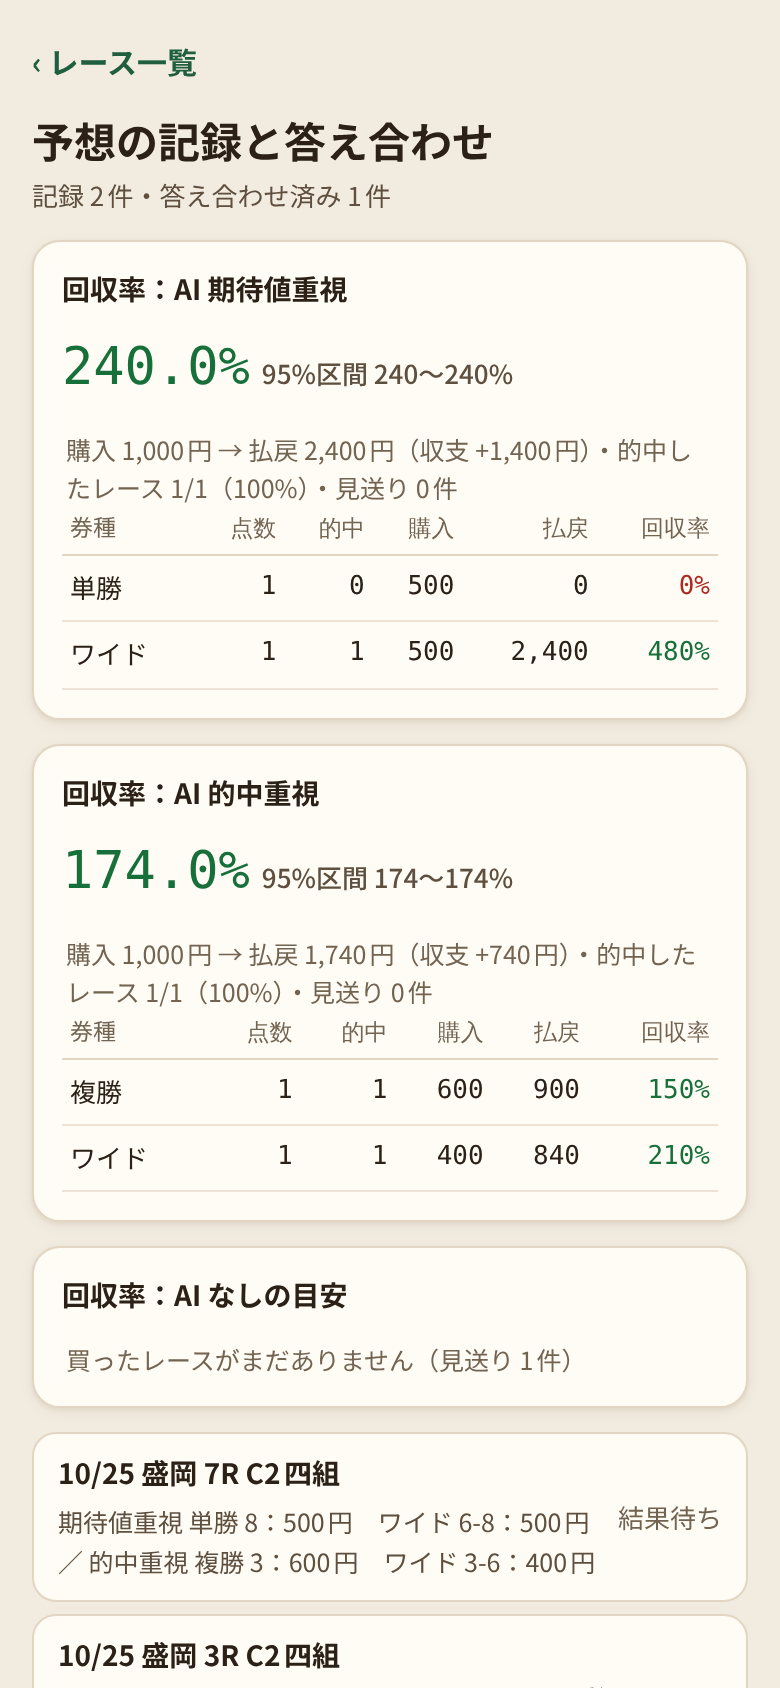
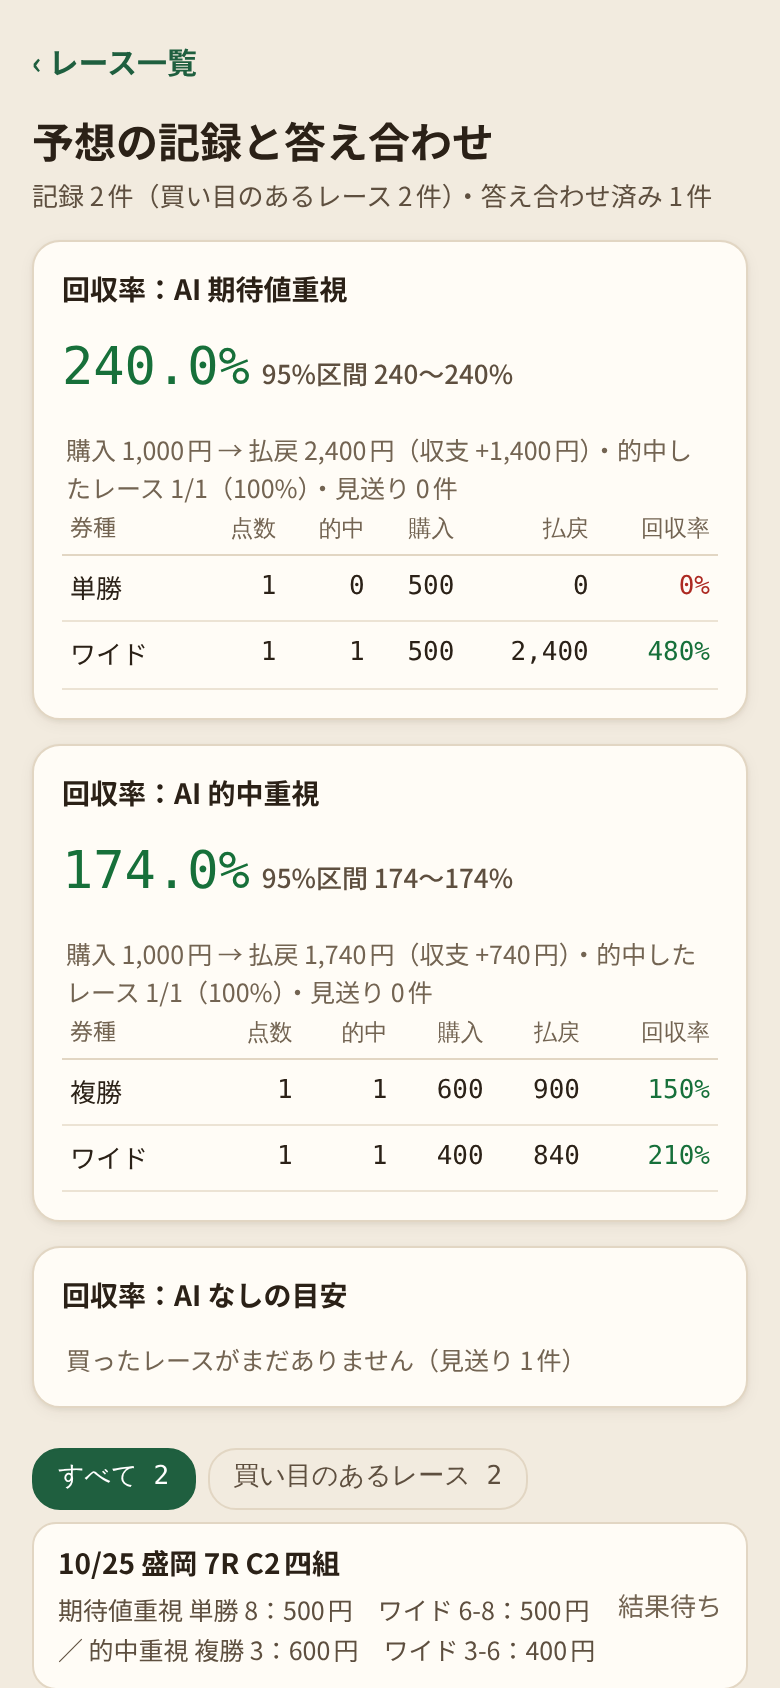
収集しただけのレースも記録の一覧に出す（「すべて」「買い目のあるレース」で絞れる）

diff --git a/tests/ui_smoke.js b/tests/ui_smoke.js
@@ -144,8 +144,7 @@ const check = (scheme, name, ok, detail) => { if (!ok) failures.push(`[${scheme}
       App.onAutoBackup(true, "ダウンロード/keiba-backup/x.json");
       showRecords();
       const line = document.querySelector(".backup-line") ? document.querySelector(".backup-line").textContent : "";
-      const dataNote = [...document.querySelectorAll(".rec-list .note")].some((x) => x.textContent.includes("データとして記録"));
-      return { shared, backup, line, dataNote };
+      return { shared, backup, line };
     });
     check(scheme, "通知の「AI へ送る」で前回の送り先へ送る", !!misc.shared && misc.shared.choose === false && misc.shared.len > 100, JSON.stringify(misc.shared));
     check(scheme, "自動バックアップ（週1回）", !!misc.backup && misc.backup.n > 0 && /^keiba-backup-\d{8}-\d{4}\.json$/.test(misc.backup.name), JSON.stringify(misc.backup));
@@ -157,14 +156,20 @@ const check = (scheme, name, ok, detail) => { if (!ok) failures.push(`[${scheme}
       // AI の回答がなく、AI なしの目安だけ買い目を出したレース
       const mk = JSON.parse(JSON.stringify(records.find((r) => r["市場買い目"] && r["市場買い目"].length)));
       mk["AI"] = null; delete mk["購入"]; mk["日付"] = "20261031"; mk["レース番号"] = 12; mk.race_id = "202644103112"; o["20261031|大井|12"] = mk; writeRecords(o);
+      // 収集しただけのレース（AI の回答・買い目なし）
+      const dt = JSON.parse(JSON.stringify(mk)); delete dt["市場買い目"]; dt["日付"] = "20261030"; dt.race_id = "202644103012"; o["20261030|大井|12"] = dt; writeRecords(o);
       showRecords();
-      return { h: [...document.querySelectorAll(".card h3")].map((x) => x.textContent), items: document.querySelectorAll(".rec-list .rec-item").length, mkOnly: [...document.querySelectorAll(".rec-list .rec-item")].some((x) => x.textContent.includes("10/31 大井 12R") && x.textContent.includes("目安 ")), brier: [...document.querySelectorAll(".card h3")].some((x) => x.textContent.startsWith("推定勝率の精度")), ex: document.querySelector(".backup-line").parentElement.querySelectorAll("button").length };
+      return { h: [...document.querySelectorAll(".card h3")].map((x) => x.textContent), items: document.querySelectorAll(".rec-list .rec-item").length, mkOnly: [...document.querySelectorAll(".rec-list .rec-item")].some((x) => x.textContent.includes("10/31 大井 12R") && x.textContent.includes("目安 ")),
+        collectedOnly: [...document.querySelectorAll(".rec-list .rec-item")].some((x) => x.textContent.includes("10/30 大井 12R") && x.textContent.includes("収集のみ")),
+        filtered: (() => { state.recFilter = "bets"; renderRecords(); const n = [...document.querySelectorAll(".rec-list .rec-item")].filter((x) => x.textContent.includes("収集のみ")).length; const has = [...document.querySelectorAll(".rec-list .rec-item")].length > 0; state.recFilter = "all"; renderRecords(); return n === 0 && has; })(), brier: [...document.querySelectorAll(".card h3")].some((x) => x.textContent.startsWith("推定勝率の精度")), ex: document.querySelector(".backup-line").parentElement.querySelectorAll("button").length };
     }, records);
     check(scheme, "収支の推移", rec.h.some((t) => t.startsWith("収支の推移")), rec.h.join(","));
     check(scheme, "CLV", rec.h.some((t) => t.startsWith("締切オッズとの比較")));
     check(scheme, "回収率：AI なしの目安", rec.h.some((t) => t === "回収率：AI なしの目安"), rec.h.join(","));
     check(scheme, "記録の一覧が並ぶ", rec.items > 0, String(rec.items));
     check(scheme, "AI なしの目安だけのレースも一覧に出る", rec.mkOnly);
+    check(scheme, "収集しただけのレースも一覧に出る", rec.collectedOnly);
+    check(scheme, "「買い目のあるレース」に絞れる", rec.filtered);
     check(scheme, "精度のカードと書き出しのボタン", rec.brier && rec.ex === 3, String(rec.ex));
     check(scheme, "記録の画面が横にはみ出さない", (await overflow()) <= 0);
 

diff --git a/android/app/src/main/assets/js/ui-records.js b/android/app/src/main/assets/js/ui-records.js
@@ -878,7 +878,7 @@ function renderRecords() {
   body.append(el("h2", "race-title", "予想の記録と答え合わせ"));
   const recs = readRecords();
   const all = Object.values(recs);
-  body.append(el("p", "race-sub", `記録 ${all.filter((r) => !isDataOnly(r)).length}件・答え合わせ済み ${all.filter((r) => r["AI"] && r["結果"]).length}件`));
+  body.append(el("p", "race-sub", `記録 ${all.length}件（買い目のあるレース ${all.filter((r) => !isDataOnly(r)).length}件）・答え合わせ済み ${all.filter((r) => !isDataOnly(r) && r["結果"]).length}件`));
   const bar = recordsFetchBar(recs);
   if (bar) body.append(...bar);
   const sm = safeSummary(all);
@@ -985,11 +985,21 @@ function brierCard(sm) {
 function recordsList(recs) {
   const list = el("div", "rec-list"); list.style.marginTop = "12px";
   const cache = readCache();
-  const entries = Object.entries(recs).filter(([, r]) => !isDataOnly(r)).sort((a, b) => recOrder(b[1]).localeCompare(recOrder(a[1])));
-  const dataRecs = Object.values(recs).filter(isDataOnly);
-  if (dataRecs.length) list.append(el("p", "note", `ほかに、データとして記録したレース ${dataRecs.length}件（結果あり ${dataRecs.filter((r) => r["結果"]).length}件）。AI の回答がないレースも結果まで残し、書き出しと自動バックアップに入ります（あとで分析に使うため）`));
+  // 収集しただけのレースも並べる。「買い目のあるレース」に絞ることもできる（AI の回答・買った馬券・目安の買い目）
+  const all = Object.entries(recs).sort((a, b) => recOrder(b[1]).localeCompare(recOrder(a[1])));
+  const withBets = all.filter(([, r]) => !isDataOnly(r));
+  const only = state.recFilter === "bets";
+  const tg = el("div", "chips-pick");
+  for (const [id, label] of [["all", `すべて ${all.length}`], ["bets", `買い目のあるレース ${withBets.length}`]]) {
+    const b = el("button", null, label); b.setAttribute("aria-pressed", String((id === "bets") === only));
+    b.onclick = () => { state.recFilter = id; renderRecords(); };
+    tg.append(b);
+  }
+  list.append(tg);
+  const entries = only ? withBets : all;
   for (const [key, r] of entries.slice(0, 100)) list.append(recordItem(key, r, cache));
-  if (!entries.length) list.append(el("p", "note", "結果画面の「AI の回答を貼り付けて記録」で記録すると、ここに並びます"));
+  if (entries.length > 100) list.append(el("p", "note", `新しい順に100件まで出しています（ほか ${entries.length - 100}件は書き出しに入ります）`));
+  if (!entries.length) list.append(el("p", "note", only ? "AI の回答を記録するか、買った馬券を入れるか、AI なしの目安が買い目を出すと、ここに並びます" : "レースを収集すると、ここに並びます"));
   return list;
 }
 
@@ -1004,9 +1014,13 @@ function recordItem(key, r, cache) {
   if (own.length) keys = [["購入", "自分 "]].concat(keys);
   if (marketBetsOf(r).length) keys = keys.concat([["市場買い目", "目安 "]]);
   const betsOf = (k) => (k === "購入" ? own : k === "市場買い目" ? marketBetsOf(r) : (r["AI"] && r["AI"][k]) || []);
-  it.append(el("span", "s", !keys.length ? "AI の回答なし" : keys.map(([k, lb]) => lb + desc(betsOf(k))).join(" ／ ")));
+  it.append(el("span", "s", !keys.length ? (Array.isArray(r["市場買い目"]) ? "収集のみ（目安は見送り）" : "収集のみ") : keys.map(([k, lb]) => lb + desc(betsOf(k))).join(" ／ ")));
   let st;
-  if (!keys.length) st = el("span", "st wait", "—");
+  if (!keys.length) {
+    // 収集しただけのレース：結果が出ていれば1着の馬番を出す
+    const win = r["結果"] ? Object.entries(r["結果"]["着順"] || {}).find(([, x]) => x === "1") : null;
+    st = el("span", "st wait", r["結果"] ? (win ? `1着 ${win[0]}番` : "結果あり") : "結果待ち");
+  }
   else if (!r["結果"]) st = el("span", "st wait", "結果待ち");
   else {
     const parts = keys.map(([k, lb]) => {

diff --git a/docs/record-format.md b/docs/record-format.md
@@ -56,4 +56,4 @@ PC版の `output/records/<race_id>.json`、Android版の端末内の記録、And
 | `取得時刻` | 結果を取った日本時間 | 最初から |
 
 - `組み合わせ` は馬番を `-` でつないだ文字。馬連・ワイド・3連複など順序のない券種は小さい順、馬単・3連単は着順の順
-- AI の回答も買った馬券も目安の買い目（空でない `市場買い目`）もない記録は「データとして記録したレース」で、Android版では一覧に出さず、結果まで残して分析に使う
+- AI の回答も買った馬券も目安の買い目（空でない `市場買い目`）もない記録は「データとして記録したレース」で、Android版では一覧に「収集のみ」として出し（「買い目のあるレース」に絞ると出ない）、結果まで残して分析に使う。残す件数は別に数える
